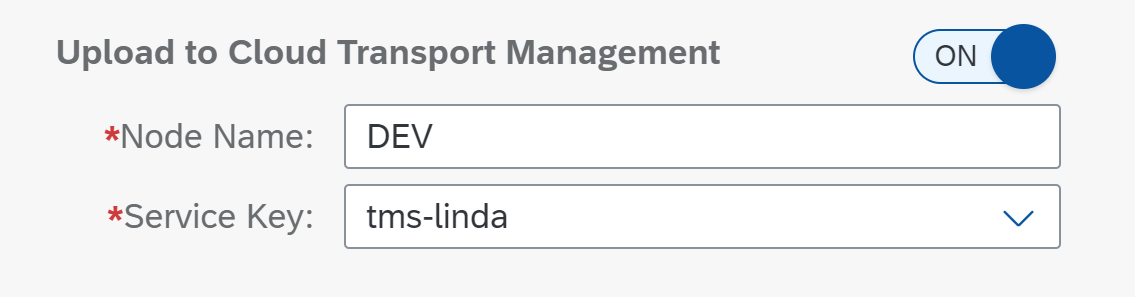
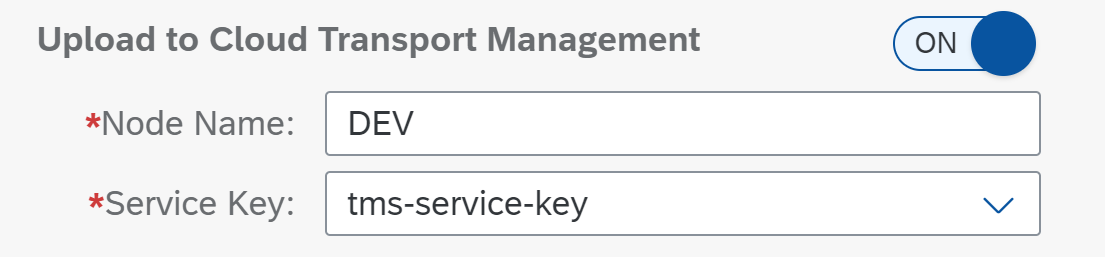
adapt changes

diff --git a/exercises/ex3/README.md b/exercises/ex3/README.md
@@ -1,13 +1,13 @@
-# Exercise 3 
+# Exercise 3 - Add TMS to the CICD job
 
 In this exercise, you will extend your SAP Continuous Integration and Delivery pipeline with additional unit tests and an upload to SAP Cloud Transport Management.
 
 ## Exercise 3.1 - Enable Additional Unit Tests
 
-1. In the **Jobs** tab in SAP Continuous Integration and Delivery, choose your job. 
-2. In the **Stages** section of your job details, switch on **Additional Unit Tests** using the toggle button.
-
-<br>![](/exercises/ex3/images/03_01_0010.png)
+1. In the **Jobs** tab in SAP Continuous Integration and Delivery, choose the job you created in Exercise 1.
+2. Click **Edit** to make the changes required below.
+3. In the **Stages** section of your job details, switch on **Additional Unit Tests** using the toggle button.
+<br>![](/exercises/ex3/images/03_03_0010.png)
 
 ## Exercise 3.2 - Create the Service Key Credential for SAP Cloud Transport Management
 
@@ -22,9 +22,12 @@ Procedure
 3. From the navigation area, choose Services > Instances.
 4. Choose the name of your service instance.
 5. From the navigation area, choose Service Keys.
-6. Copy the entire service key.
-7. In SAP Continuous Integration and Delivery, create a new Service Key credential and paste the copied service key into the respective text field. See [Creating Credentials](https://help.sap.com/docs/CONTINUOUS_DELIVERY/99c72101f7ee40d0b2deb4df72ba1ad3/6658c81f3e43456891852955b1ee11db.html).
-8. When creating a job, use the newly created Service Key credential in the Upload to Cloud Transport Management stage.
+6. Next to the name of your service key, click on the 3 dots and then click "View"
+7. Copy the entire service key by clicking the "Copy JSON" button.
+8. In SAP Continuous Integration and Delivery, create a new Service Key credential and paste the copied service key into the respective text field.
+9. Enter a name for the service key. For example "tms-service-key""
+
+**Note:** For additional information, see [Creating Credentials](https://help.sap.com/docs/CONTINUOUS_DELIVERY/99c72101f7ee40d0b2deb4df72ba1ad3/6658c81f3e43456891852955b1ee11db.html)
 
 ## Exercise 3.3 - Create the Transport Nodes and Route 
 
@@ -38,36 +41,33 @@ Create nodes for your spaces or subaccounts, connect them through a transport ro
 
 ## Exercise 3.4 Activate the Release Stage of your job
 
-### Deploy to Cloud Foundry Space
-
 Configure Release Stage via providing corresponding mandorty parameters as described below.
-
-1. In the **Stages** section of your job details, switch on the **Deploy to Cloud Foundry Space** using the toggle (If the Deploy to Cloud Foundry Space step is switched off, all corresponding entry fields are deactivated).
-2. Enter the URL of your SAP BTP, Cloud Foundry API Endpoint. See [Regions and API Endpoints Available for the Cloud Foundry Environment](https://help.sap.com/docs/BTP/65de2977205c403bbc107264b8eccf4b/350356d1dc314d3199dca15bd2ab9b0e.html#loiof344a57233d34199b2123b9620d0bb41).
-3. Enter the name of your Cloud Foundry organization. You can find it in the overview of your subaccount in the SAP BTP cockpit.
-4. Enter the name of the Cloud Foundry space to which you want to deploy your application.
-5. To authenticate your pipeline against the Cloud Foundry API endpoint, create a Basic Authentication credential of a user, who has the appropriate permissions. The user must have the Space Developer role and be a member of the specified Cloud Foundry organization and space. See [Creating Credentials](https://help.sap.com/docs/CONTINUOUS_DELIVERY/99c72101f7ee40d0b2deb4df72ba1ad3/6658c81f3e43456891852955b1ee11db.html). Choose this credential from the dropdown list.
 
 ### Upload to Cloud Transport Management
 
-1. Enter the name of the node for the upload to SAP Cloud Transport Management.
-2. To authenticate your pipeline against SAP Cloud Transport Management, create a Service Key. Choose this credential from the dropdown list.
-3. Choose Save.
-
+1. Turn on the TMS upload step via toggle button.
+2. Enter the name of the node for the upload to SAP Cloud Transport Management.
+3. To authenticate your pipeline against SAP Cloud Transport Management, choose the service key you just created from the dropdown list.
+4. Choose Save.
 <br>![](/exercises/ex3/images/03_02_0010.png)
 
-## Exercise 3.5 - Run the Pipeline manually (Test stage fails)
+## Exercise 3.5 - Run the Pipeline manually
 
-1. Run SAP Fiori in the Cloud Foundry environment pipeline by pressing blue **Run** button on the top right button.
-2. Here **Additional Unit Tests** Stage is bound to fail.
+1. Run your job by pressing the blue **Run** button on the top right.
+2. You should see that the build has failed in the **Additional Unit Tests** stage. Click on the stage to find more information.
 
 ## Exercise 3.6 - Fix the test and GitHub commit
 
-In the previous run of your pipeline, **Additional Unit Tests** are failing because the reference file during the test stage doesn't exist within your application repository. Please follow points listed below to fix the test.
-1. Provide correct manifest [file type](https://github.com/SAP-samples/teched2022-XP280/blob/main/HTML5Module/webapp/Component.js#L11) via changing **xml** to **json**. 
-2. Click on Commit changes to perform a GitHub commit.
+In the previous run of your pipeline, **Additional Unit Tests** are failing because one of the unit tests is trying to access a file that doesn't exist. Please follow points below for a fix.
+
+1. Fix the test by providing the correct manifest file type. In your repository copy, go to the HTML5Module/webapp/Component.js file. Click on the pencil icon to edit the [file]((https://github.com/SAP-samples/teched2022-XP280/blob/main/HTML5Module/webapp/Component.js#L11)). Change line 11 from "xml" to "json".
+<br>![](/exercises/ex3/images/03_04_0010.png)
+2. Replace "Update Component.js" with a meaningful commit message, like "Replace xml with json". Click "Commit changes" to save the file.
 
 ## Exercise 3.7 - Check the Pipeline for success
 
-1. After pressing Commit changes, your configured job would trigger automatically (this is because, you have already configured webhook for your designated job. Any push event would auto trigger your pipeline now).
-2. Your job should be successful this time.
+Return to your job in the SAP Continuous Integration and Delivery service.
+
+If you created a webhook in Exercise 1, your configured job should have already started automatically after you committed the changes to the file in GitHub. If you didn't create a webhook, click the blue "Run" button to start your job manually.
+
+Your job should now be successful, and not only run unit tests, but also perform an upload to SAP Cloud Transport Management.
